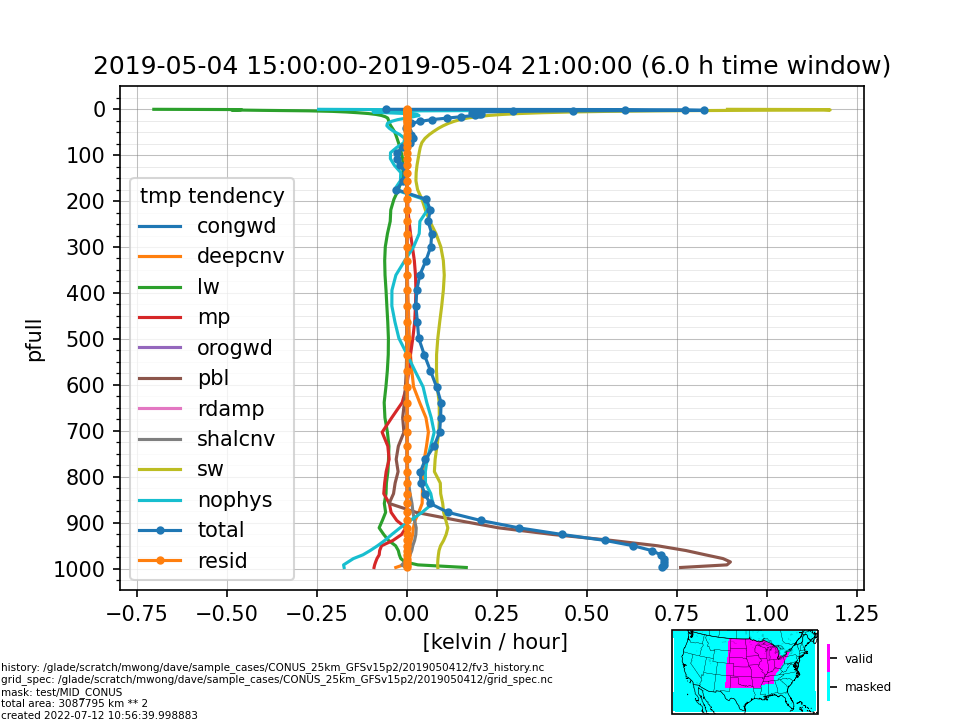
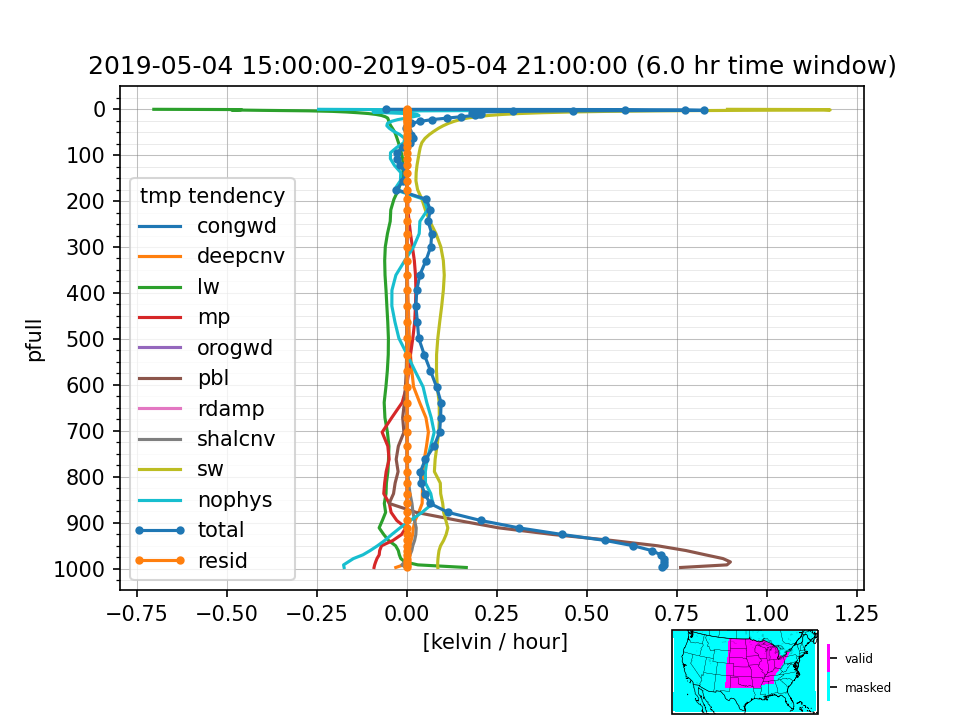
added --nofineprint option

diff --git a/metplotpy/contributed/fv3_physics_tend/vert_profile_fv3.py b/metplotpy/contributed/fv3_physics_tend/vert_profile_fv3.py
@@ -33,6 +33,7 @@ def parse_args():
     parser.add_argument("statevariable", type=str, choices=state_variables, default="tmp", help="state variable")
     # ==========Optional Arguments===================
     parser.add_argument("-d", "--debug", action='store_true')
+    parser.add_argument("--nofineprint", action='store_true', help="Don't add metadata and created by date (for comparing images)")
     parser.add_argument("-o", "--ofile", type=str, help="name of output image file")
     parser.add_argument("--resid", action="store_true", help="calculate residual")
     parser.add_argument("-s", "--shp", type=str, default=None, help="shape file directory for mask")
@@ -50,6 +51,7 @@ def main():
     variable   = args.statevariable
     debug      = args.debug
     resid      = args.resid
+    nofineprint= args.nofineprint
     ofile      = args.ofile
     shp        = args.shp
     subtract   = args.subtract
@@ -211,18 +213,19 @@ def main():
     title = f'{time0}-{validtime} ({twindow_quantity.to("hours"):~} time window)'
     ax.set_title(title, wrap=True)
 
-    # Locate region of interest on conus map background. Put in inset.
-    projection = cartopy.crs.LambertConformal(central_longitude=-97.5, central_latitude=fv3["standard_parallel"])
-    ax_inset = plt.gcf().add_axes([.7, .001, .19, .13], projection=projection)
-    # astype(int) to avoid TypeError: numpy boolean subtract
-    cbar_kwargs = dict(ticks=[0.25,0.75],shrink=0.6)
-    pc = mask.assign_coords(lont=lont, latt=latt).astype(int).plot.pcolormesh(ax=ax_inset, x="lont", y="latt", infer_intervals=True, 
+    if shp:
+        # Locate region of interest on conus map background. Put in inset.
+        projection = cartopy.crs.LambertConformal(central_longitude=-97.5, central_latitude=fv3["standard_parallel"])
+        ax_inset = plt.gcf().add_axes([.7, .001, .19, .13], projection=projection)
+        # astype(int) to avoid TypeError: numpy boolean subtract
+        cbar_kwargs = dict(ticks=[0.25,0.75],shrink=0.6)
+        pc = mask.assign_coords(lont=lont, latt=latt).astype(int).plot.pcolormesh(ax=ax_inset, x="lont", y="latt", infer_intervals=True, 
             transform=cartopy.crs.PlateCarree(), cmap=plt.cm.get_cmap('cool',2), add_labels=False, cbar_kwargs=cbar_kwargs)
-    pc.colorbar.ax.set_yticklabels(["masked","valid"], fontsize='xx-small')
-    pc.colorbar.outline.set_visible(False)
-    physics_tend.add_conus_features(ax_inset)
-    extent = fv3["extent"]
-    ax_inset.set_extent(extent)
+        pc.colorbar.ax.set_yticklabels(["masked","valid"], fontsize='xx-small')
+        pc.colorbar.outline.set_visible(False)
+        physics_tend.add_conus_features(ax_inset)
+        extent = fv3["extent"]
+        ax_inset.set_extent(extent)
 
     # Annotate figure with details about figure creation. 
     fineprint  = f"history: {os.path.realpath(ifile.name)}"
@@ -232,7 +235,10 @@ def main():
     if shp: fineprint += f"\nmask: {shp}"
     fineprint += f"\ntotal area: {totalarea.data:~.0f}"
     fineprint += f"\ncreated {datetime.datetime.now(tz=None)}"
-    fineprint_obj = plt.annotate(text=fineprint, xy=(1,1), xycoords='figure pixels', fontsize=5)
+    if nofineprint:
+        logging.info(fineprint)
+    else:
+        fineprint_obj = plt.annotate(text=fineprint, xy=(1,1), xycoords='figure pixels', fontsize=5)
 
 
     plt.savefig(ofile, dpi=fv3["dpi"])

diff --git a/metplotpy/contributed/fv3_physics_tend/planview_fv3.py b/metplotpy/contributed/fv3_physics_tend/planview_fv3.py
@@ -47,6 +47,7 @@ def parse_args():
     parser.add_argument("-d", "--debug", action='store_true')
     parser.add_argument("--method", type=str, choices=["nearest", "linear","loglinear"], default="nearest", help="vertical interpolation method")
     parser.add_argument("--ncols", type=int, default=None, help="number of columns")
+    parser.add_argument("--nofineprint", action='store_true', help="Don't add metadata and created by date (for comparing images)")
     parser.add_argument("-o", "--ofile", type=str, help="name of output image file")
     parser.add_argument("-p", "--pfull", nargs='+', type=float, default=[1000,925,850,700,500,300,200,100,0], help="pressure level(s) in hPa to plot. If only one pressure level is provided, the type-of-tendency argument will be ignored and all tendencies will be plotted.")
     parser.add_argument("-s", "--shp", type=str, default=None, help="shape file directory for mask")
@@ -66,6 +67,7 @@ def main():
     debug      = args.debug
     method     = args.method
     ncols      = args.ncols
+    nofineprint= args.nofineprint
     ofile      = args.ofile
     pfull      = args.pfull * units.hPa
     shp        = args.shp
@@ -266,7 +268,10 @@ def main():
     fineprint += f"\ntotal area: {totalarea.data:~.0f}"
     fineprint += f"\nvertical interpolation method: {method}  requested levels: {pfull}"
     fineprint += f"\ncreated {datetime.datetime.now(tz=None)}"
-    fineprint_obj = plt.annotate(text=fineprint, xy=(1,1), xycoords='figure pixels', fontsize=5)
+    if nofineprint:
+        logging.info(fineprint)
+    else:
+        fineprint_obj = plt.annotate(text=fineprint, xy=(1,1), xycoords='figure pixels', fontsize=5)
 
 
     plt.savefig(ofile, dpi=fv3["dpi"])

diff --git a/metplotpy/contributed/fv3_physics_tend/cross_section_vert.py b/metplotpy/contributed/fv3_physics_tend/cross_section_vert.py
@@ -37,6 +37,7 @@ def parse_args():
     parser.add_argument("-d", "--debug", action='store_true')
     parser.add_argument("--dindex", type=int, default=20, help="tick and gridline interval along cross section")
     parser.add_argument("--ncols", type=int, default=None, help="number of columns")
+    parser.add_argument("--nofineprint", action='store_true', help="Don't add metadata and created by date (for comparing images)")
     parser.add_argument("-o", "--ofile", type=str, help="name of output image file")
     parser.add_argument("-s", "--start", nargs=2, type=float, default=(28, -115), help="start point")
     parser.add_argument("-e", "--end", nargs=2, type=float, default=(30, -82), help="end point")
@@ -55,6 +56,7 @@ def main():
     debug      = args.debug
     dindex     = args.dindex
     ncols      = args.ncols
+    nofineprint= args.nofineprint
     ofile      = args.ofile
     startpt    = args.start
     endpt      = args.end
@@ -227,7 +229,10 @@ def main():
         fineprint  += f"\nsubtract: {os.path.realpath(subtract.name)}"
     fineprint += f"\ngrid_spec: {os.path.realpath(gfile.name)}"
     fineprint += f"\ncreated {datetime.datetime.now(tz=None)}"
-    fineprint_obj = plt.annotate(text=fineprint, xy=(1,1), xycoords='figure pixels', fontsize=5)
+    if nofineprint:
+        logging.info(fineprint)
+    else:
+        fineprint_obj = plt.annotate(text=fineprint, xy=(1,1), xycoords='figure pixels', fontsize=5)
 
 
     plt.savefig(ofile, dpi=fv3["dpi"])
